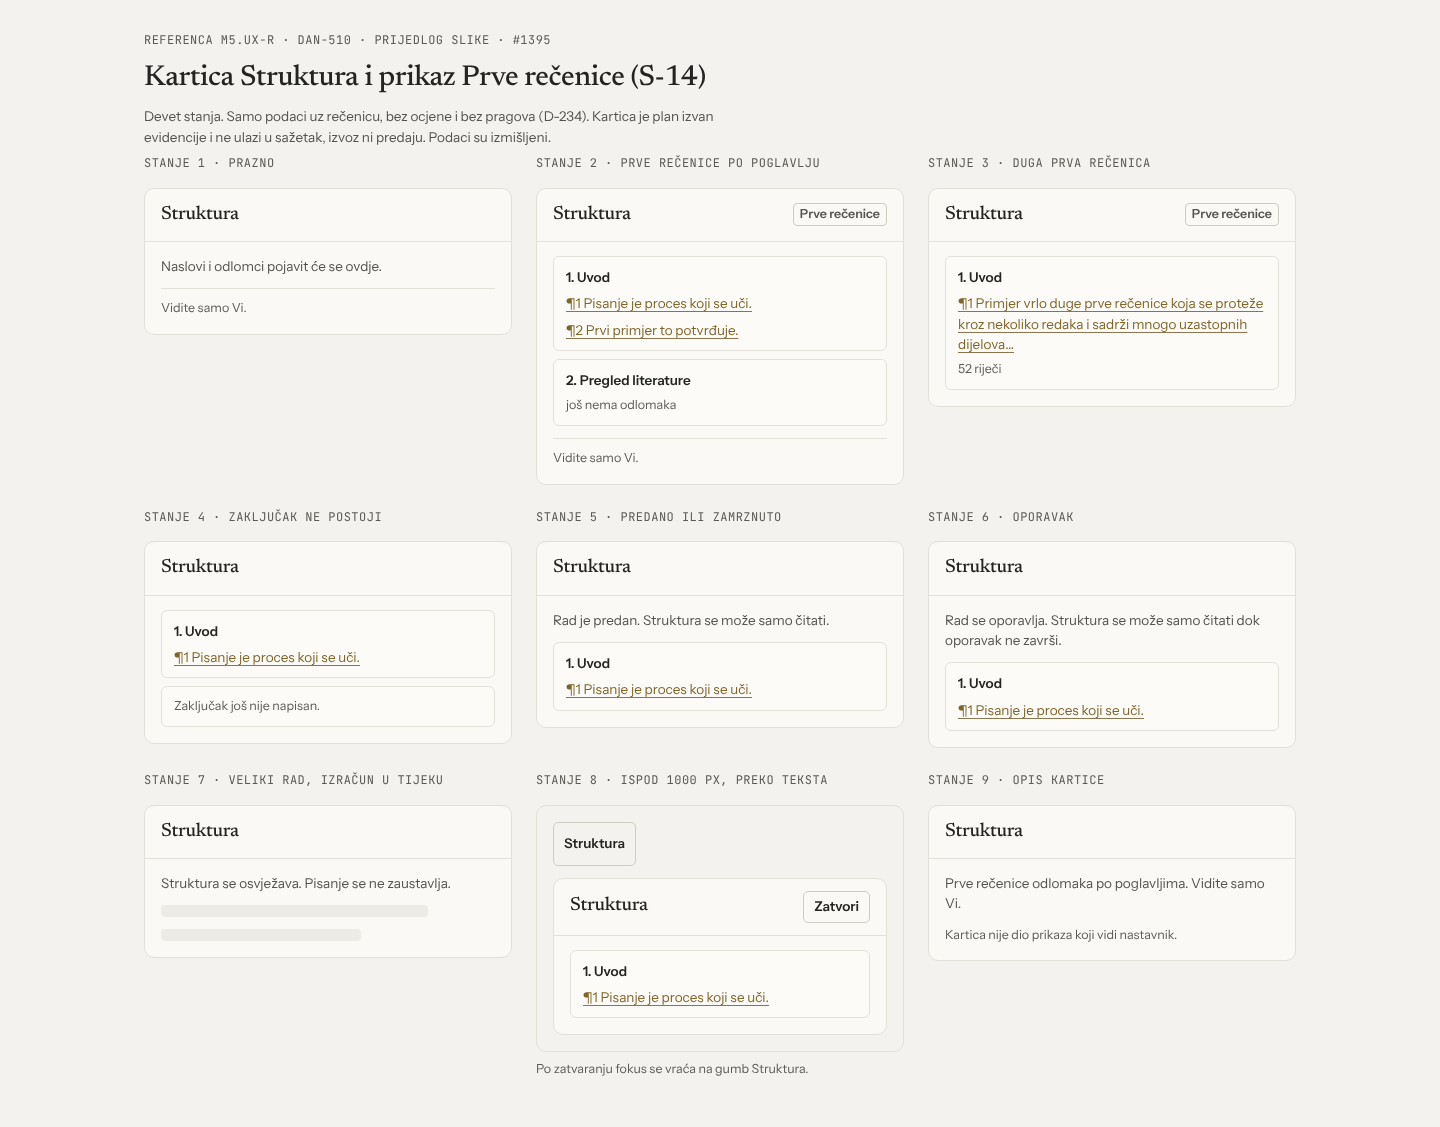
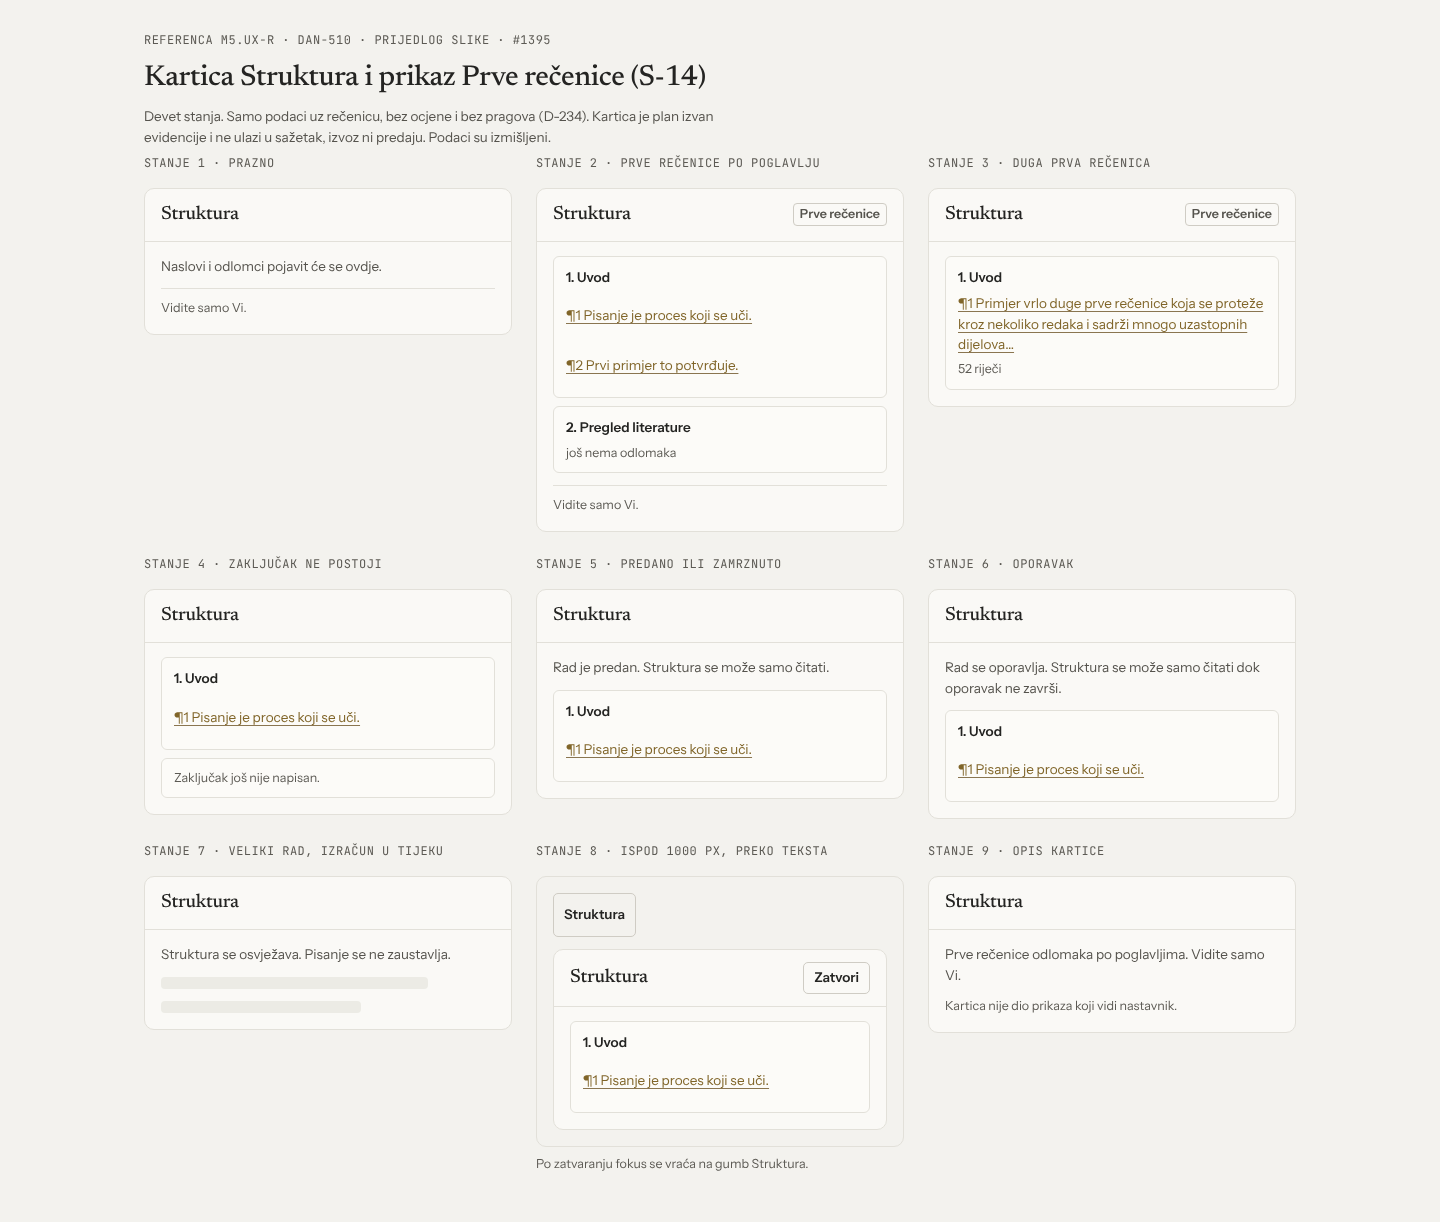
docs: 44 px link targets at all widths in M5 reference part B, aligned with part A (DAN-510)
Move the .panel a, .rail a 44 x 44 px target rule out of the mobile
media query so it applies at every width, matching #1434 head ae2c2bba.
Re-shoot the two affected struktura-s14 1440 screenshots.

Claude-Session: https://claude.ai/code/session_011GCKG9kXcdzM6c8Q152Yuq

diff --git a/docs/design/ductura/m5-reference/reference.css b/docs/design/ductura/m5-reference/reference.css
@@ -67,6 +67,8 @@ a { color: var(--accent); text-decoration: underline; text-decoration-color: var
 .panel-top .btn.small, .item .acts .btn.small, .statusbar .btn.small { min-height: 32px; }
 .btn.ghost { background: transparent; color: var(--ink); border-color: transparent; text-decoration: underline; text-decoration-color: var(--link-rule); text-underline-offset: 3px; }
 .btn[aria-disabled="true"] { opacity: 1; background: var(--well); color: var(--ink-3); border-color: var(--rule-2); cursor: not-allowed; }
+/* DESIGN-SYSTEM §5: samostalne poveznice u panelu i railu imaju cilj najmanje 44 × 44 px na svim širinama, ne samo na mobitelu. */
+.panel a, .rail a { display: inline-flex; align-items: center; min-height: 44px; min-width: 44px; }
 .tag { display: inline-block; font-size: 12.5px; font-weight: 600; color: var(--ink-2); border: 1px solid var(--rule); border-radius: 4px; padding: 1px 6px; white-space: nowrap; }
 .tag.open { border-style: dashed; }
 .list { display: grid; gap: 8px; margin: 0; padding: 0; list-style: none; }
@@ -111,6 +113,5 @@ a { color: var(--accent); text-decoration: underline; text-decoration-color: var
   .btn, .btn.small, .panel-top .btn.small, .item .acts .btn.small, .statusbar .btn.small, .input { min-height: 44px; }
   label:has(> input[type="checkbox"]) { display: flex; align-items: center; min-height: 44px; }
   .statusbar a { display: inline-flex; align-items: center; min-height: 44px; min-width: 44px; }
-  .panel a, .rail a { display: inline-flex; align-items: center; min-height: 44px; min-width: 44px; }
   .tag, .field label, .statusbar, .src { font-size: 13px; }
 }
